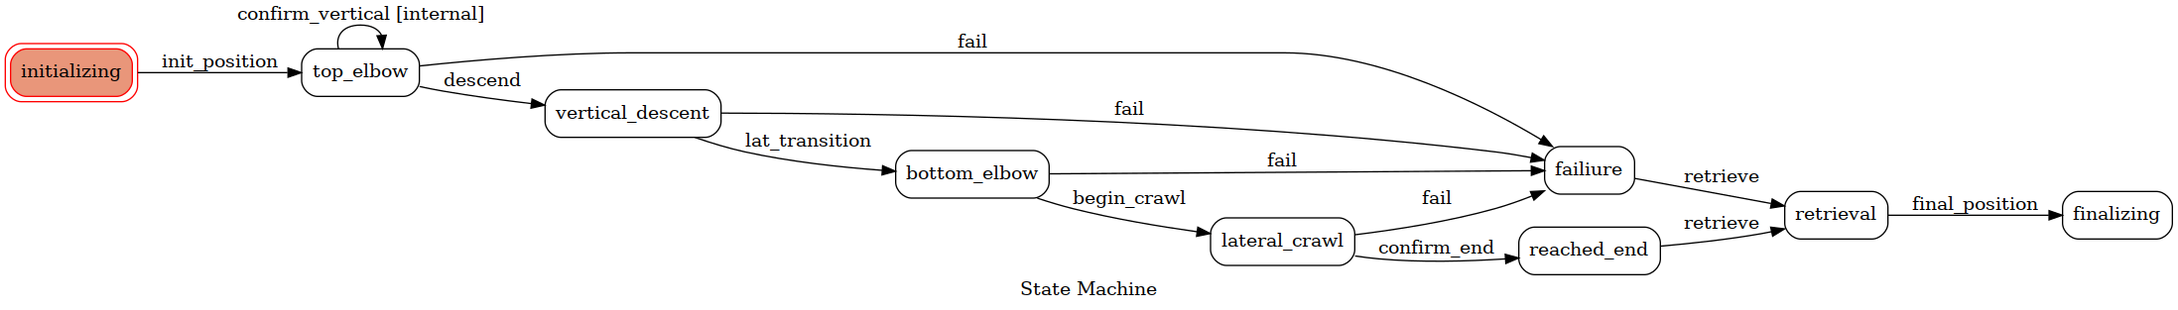
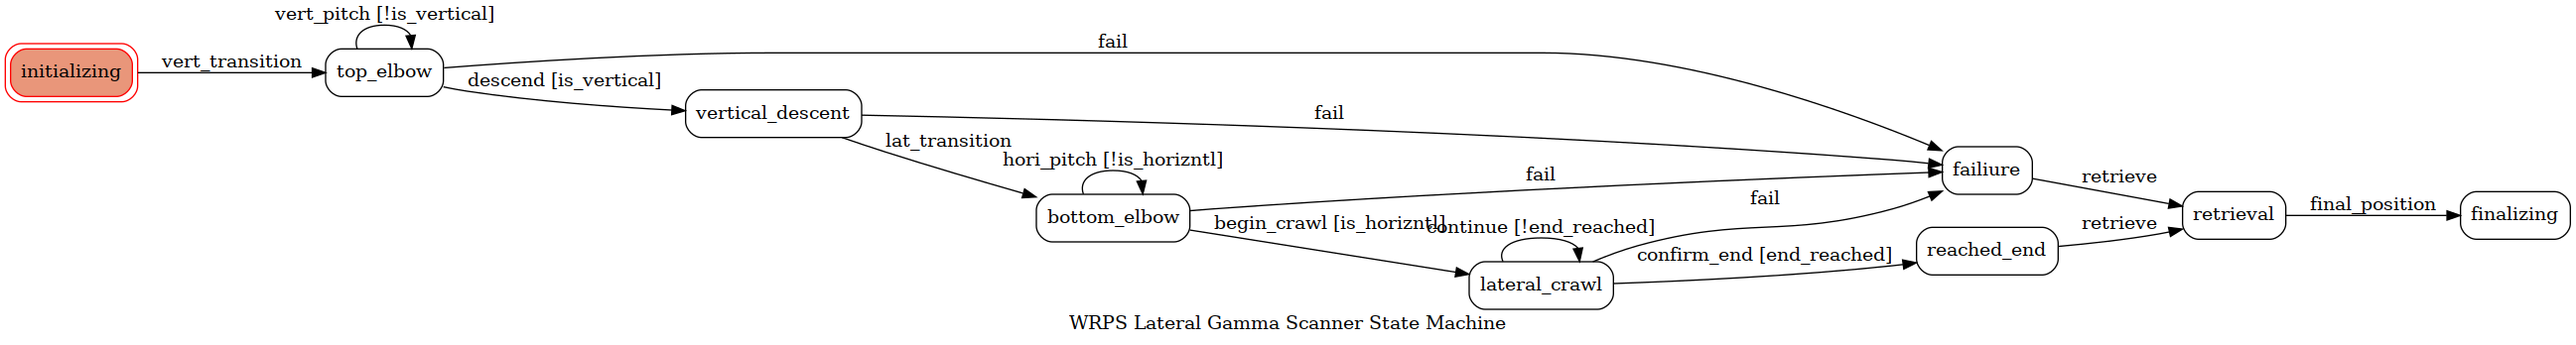
saving work

Changed region(s): [[0.0, 0.0, 1.0, 0.8914], [0.4027, 0.8914, 0.6196, 0.9776], [0.6815, 0.2588, 0.7125, 0.3163]]

diff --git a/lgs_state_machine/state_machine.py b/lgs_state_machine/state_machine.py
@@ -1,38 +1,75 @@
+from html import unescape
+from multiprocessing.sharedctypes import Value
 import time
 import rclpy
 from rclpy.node import Node
 from pipecrawler.action import Crawlaction
+from fm_interfaces.srv import Checkimu
 from reel.action import Reelaction
 from rclpy.action import ActionClient
+from std_msgs.msg import Int16
 from transitions import Machine
 from transitions.extensions import GraphMachine
 
 states = ['initializing','top_elbow','vertical_descent','bottom_elbow',
           'lateral_crawl','reached_end','retrieval','finalizing','failiure']
 
+extra_args = dict(initial='initializing', title='WRPS Lateral Gamma Scanner State Machine',
+                  show_conditions=True, show_state_attributes=False)
+
 class StateMachineNode(Node):
     def __init__(self):
         super().__init__("state_machine")
+        self.declare_parameter('pipe_length', 160)
         self.get_logger().info("State machine node is up")
         self._crawler_client = ActionClient(self, Crawlaction, 'crawl_through_pipe')
         self._reel_client = ActionClient(self, Reelaction, 'activate_reel' )
+        self.pitch_cli = self.create_client(Checkimu, 'pitch_service')
+        while not self.pitch_cli.wait_for_service(timeout_sec=1.0):
+            self.get_logger().info('service not available, waiting again...')
+        self.req = Checkimu.Request()
+        self.req.request = 1
+
+    def is_vertical(self):
+        self.future = self.pitch_cli.call_async(self.req)
+        rclpy.spin_until_future_complete(self, self.future)
+        self.pitch = abs(self.future.result().pitch)
+        self.get_logger().info("Current inclination angle: {0}".format(self.pitch))
+        if self.pitch > 75:
+            return True
+        else:
+            return False
+        
+    def is_horizntl(self):
+        self.future = self.pitch_cli.call_async(self.req)
+        rclpy.spin_until_future_complete(self, self.future)
+        self.pitch = abs(self.future.result().pitch)
+        self.get_logger().info("Inclination angle: {0}".format(self.pitch))
+        if self.pitch < 15:
+            return True
+        else:
+            return False
+        
+    def end_reached(self):
+        length = 1
+        return True
 
     def crawl_count_feedback(self, feedback):
         self.get_logger().info("received feednacl")
-        self.get_logger().info('Received feedback: {0}'.format(feedback.jfeedback.count))
+        self.get_logger().info('Received feedback: {0}'.format(feedback.feedback.count))
 
     def crawl(self, dir='forward'):
         crawl_goal = Crawlaction.Goal()
         reel_goal = Reelaction.Goal()
         reel_goal.reelcommand.reel_vel = 1
-        reel_goal.reelcommand.interval = 0.2
+        reel_goal.reelcommand.interval = 2.15
         reel_goal.reelcommand.continuous = True
-        crawl_goal.crawlercommand.crawlpattern = [2,5,3,6,1,4]
+        crawl_goal.crawlercommand.crawlpattern = [1,3,5,2,4,6]
         crawl_goal.crawlercommand.continuous = True
-        self.get_logger().info("Sending Crawl Request")
-        self._crawler_client.wait_for_server(timeout_sec=5)
+        self.get_logger().info("Sending {0} crawl request ".format(dir))
+        self._crawler_client.wait_for_server(timeout_sec=2)
         self._crawler_client.send_goal_async(crawl_goal, feedback_callback = self.crawl_count_feedback)
-        self._reel_client.wait_for_server(timeout_sec=5)
+        self._reel_client.wait_for_server(timeout_sec=2)
         self._reel_client.send_goal_async(reel_goal)
 
     def crawl2(self, dir='stop'):
@@ -43,33 +80,59 @@ class StateMachineNode(Node):
         reel_goal.reelcommand.continuous = False
         crawl_goal.crawlercommand.crawlpattern = [0,0,0,0,0,0]
         crawl_goal.crawlercommand.continuous = False
-        self.get_logger().info("Sending Crawl 2 Request")
-        self._crawler_client.wait_for_server(timeout_sec=5)
+        self.get_logger().info("Sending {0} crawl request".format(dir))
+        self._crawler_client.wait_for_server(timeout_sec=2)
         self._crawler_client.send_goal_async(crawl_goal, feedback_callback= self.crawl_count_feedback)
         self._crawler_client.send_goal_async(crawl_goal)
-        self._reel_client.wait_for_server(timeout_sec=5)
+        self._reel_client.wait_for_server(timeout_sec=2)
         self._reel_client.send_goal_async(reel_goal)
 
-
-def main(args=None):
-    rclpy.init(args=args)
-    sm = StateMachineNode()
-    machine = GraphMachine(model=sm, states=states, initial='initializing')
-    machine.add_transition('init_position', source='initializing', dest='top_elbow')
-    machine.add_transition('confirm_vertical', ['top_elbow'], None, after= 'crawl')
-    machine.add_transition('descend', source='top_elbow', dest='vertical_descent')
+def initialize_machine():
+    rclpy.init()
+    _sm = StateMachineNode()
+    machine = GraphMachine(model=_sm, states=states ,**extra_args)
+    machine.add_transition('vert_transition', source='initializing', dest='top_elbow')
+    machine.add_transition('vert_pitch', ['top_elbow'], dest= '=', after= 'crawl', unless='is_vertical')
+    machine.add_transition('descend', source='top_elbow', dest='vertical_descent', conditions='is_vertical')
     machine.add_transition('lat_transition', source='vertical_descent', dest='bottom_elbow')
-    machine.add_transition('begin_crawl', source='bottom_elbow', dest='lateral_crawl')
-    machine.add_transition('confirm_end', source='lateral_crawl', dest='reached_end')
+    machine.add_transition('hori_pitch', ['bottom_elbow'],  dest= '=', unless='is_horizntl')
+    machine.add_transition('begin_crawl', source='bottom_elbow', dest='lateral_crawl', conditions='is_horizntl')
+    machine.add_transition('continue', ['lateral_crawl'],  dest= '=', unless='end_reached')
+    machine.add_transition('confirm_end', source='lateral_crawl', dest='reached_end', conditions='end_reached')
     machine.add_transition('retrieve', source=['reached_end', 'failiure'], dest='retrieval')
     machine.add_transition('final_position', source='retrieval', dest='finalizing')
     machine.add_transition('fail', source=['top_elbow','vertical_descent','bottom_elbow','lateral_crawl' ], dest='failiure')
-    sm.get_graph().draw('lgs_state_diagram.png', prog='dot')
-    machine.on_exit_initializing('crawl')
-    machine.on_exit_top_elbow('crawl2')
-    # sm.init_position()
-    # time.sleep(5)
-    # sm.descend()
+    machine.machine_attributes['ratio'] = '0.5'
+    _sm.get_graph().draw('lgs_state_diagram.png', prog='dot')
+    
+    ## Add  transition callbacks as parameters like: prepare/before/after='<callback_name>'
+    ## Or add state callbacks like 'on_enter/exit_<callback_name>'
+
+    # machine.on_exit_initializing('crawl')
+    # machine.on_exit_top_elbow('crawl2')
+    return _sm
+
+def main(args=None):
+    sm = initialize_machine()
+    sm.get_logger().info("Current State: {0}".format(sm.state))
+    sm.vert_transition()
+    time.sleep(1)
+    sm.get_logger().info("Current State: {0}".format(sm.state))
+    sm.descend()
+    time.sleep(1) 
+    sm.get_logger().info("Current State: {0}".format(sm.state))
+    sm.lat_transition()
+    time.sleep(1)
+    sm.get_logger().info("Current State: {0}".format(sm.state))
+    sm.begin_crawl()
+    time.sleep(1)
+    sm.get_logger().info("Current State: {0}".format(sm.state))
+    sm.confirm_end()
+    time.sleep(1)
+    sm.get_logger().info("Current State: {0}".format(sm.state))
+    sm.retrieve()
+    time.sleep(1)
+    sm.get_logger().info("Current State: {0}".format(sm.state))
 
 if __name__ == "__main__":
     main()

diff --git a/setup.py b/setup.py
@@ -1,3 +1,5 @@
+import os
+from glob import glob
 from setuptools import setup
 
 package_name = 'lgs_state_machine'
@@ -10,6 +12,7 @@ setup(
         ('share/ament_index/resource_index/packages',
             ['resource/' + package_name]),
         ('share/' + package_name, ['package.xml']),
+        (os.path.join('share', package_name), glob('launch/*_launch.py')),
     ],
     install_requires=['setuptools'],
     zip_safe=True,

diff --git a/launch/state_machine_launch.py b/launch/state_machine_launch.py
@@ -1,0 +1,15 @@
+from launch import LaunchDescription
+from launch_ros.actions import Node
+
+def generate_launch_description():
+    return LaunchDescription([
+        Node(
+            package='lgs_state_machine',
+            executable='state_machine',
+            name='state_machine_node',
+            output='screen',
+            parameters=[
+                {'pipe_length': 158}
+            ]
+        )
+    ])
